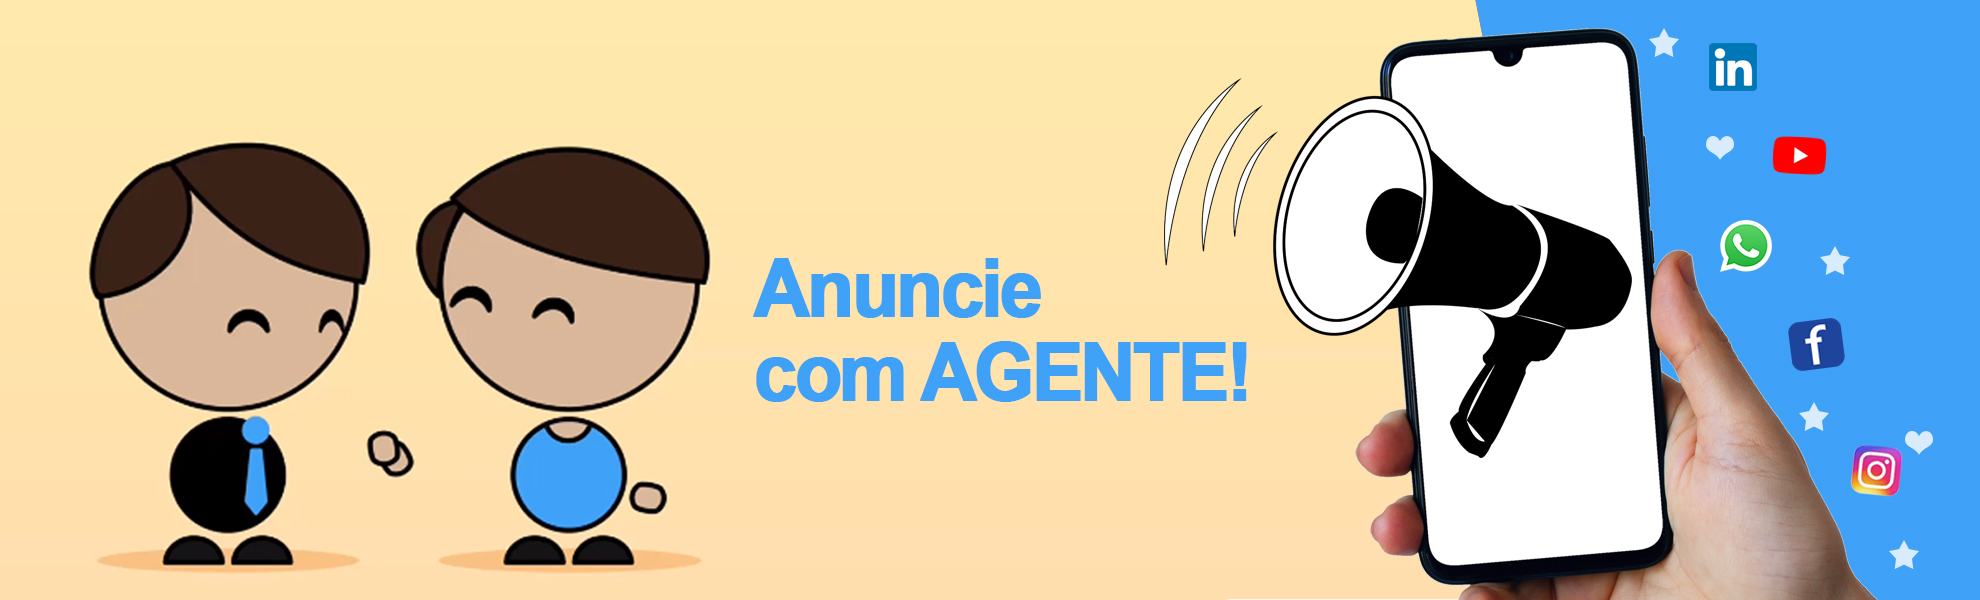
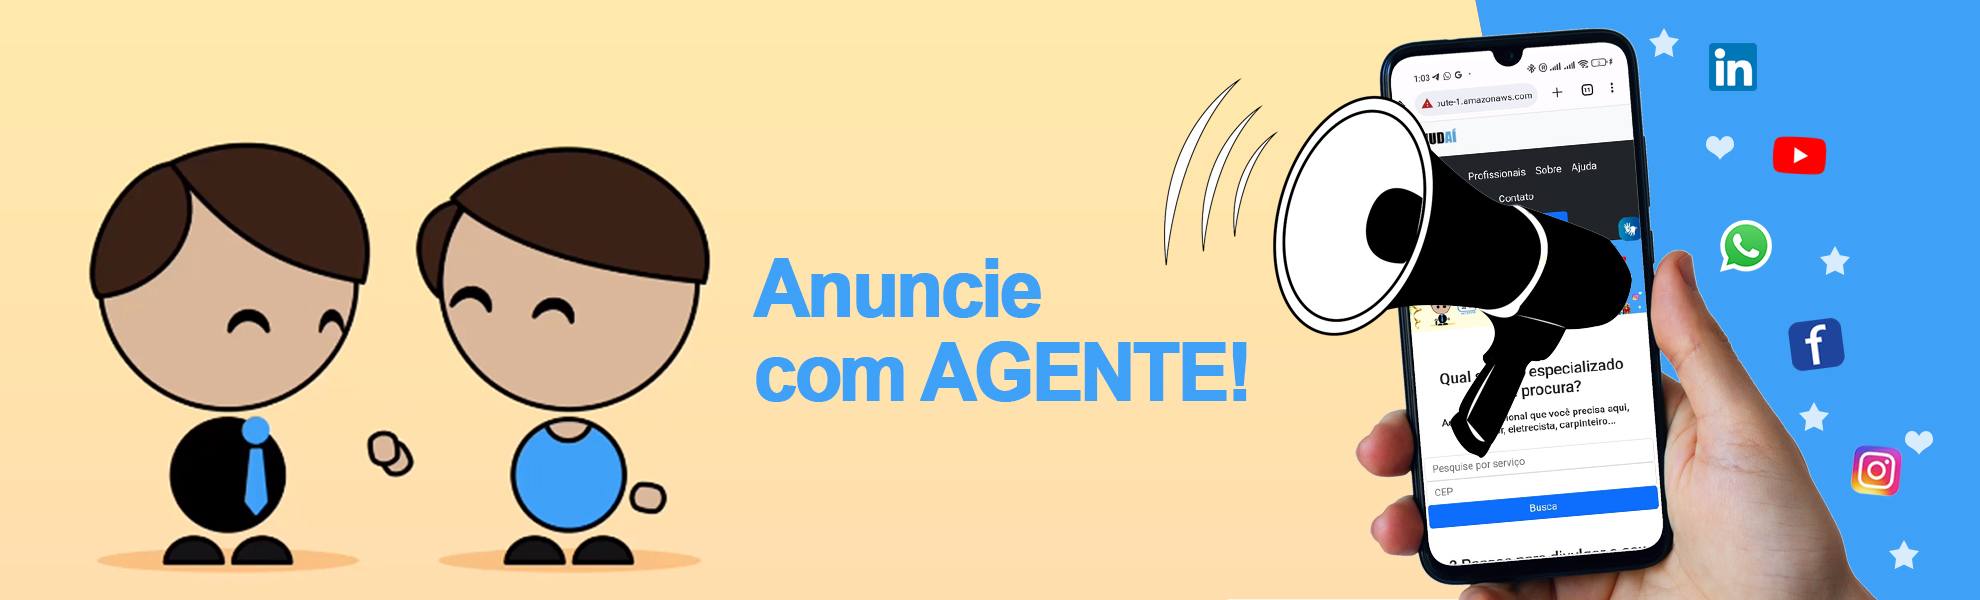
atualizacaoLinks

diff --git a/index.php b/index.php
@@ -9,61 +9,7 @@ include "connect.php";
     <meta charset="utf-8">
     <meta name="viewport" content="width=device-width, initial-scale=1">   
     <link rel="stylesheet" href="css/bootstrap.min.css">
-    <svg xmlns="http://www.w3.org/2000/svg" style="display: none;">
-
-        <symbol id="home" viewBox="0 0 16 16">
-          <path d="M8.354 1.146a.5.5 0 0 0-.708 0l-6 6A.5.5 0 0 0 1.5 7.5v7a.5.5 0 0 0 .5.5h4.5a.5.5 0 0 0 .5-.5v-4h2v4a.5.5 0 0 0 .5.5H14a.5.5 0 0 0 .5-.5v-7a.5.5 0 0 0-.146-.354L13 5.793V2.5a.5.5 0 0 0-.5-.5h-1a.5.5 0 0 0-.5.5v1.293L8.354 1.146zM2.5 14V7.707l5.5-5.5 5.5 5.5V14H10v-4a.5.5 0 0 0-.5-.5h-3a.5.5 0 0 0-.5.5v4H2.5z"/>
-        </symbol>
-        <symbol id="speedometer2" viewBox="0 0 16 16">
-          <path d="M8 4a.5.5 0 0 1 .5.5V6a.5.5 0 0 1-1 0V4.5A.5.5 0 0 1 8 4zM3.732 5.732a.5.5 0 0 1 .707 0l.915.914a.5.5 0 1 1-.708.708l-.914-.915a.5.5 0 0 1 0-.707zM2 10a.5.5 0 0 1 .5-.5h1.586a.5.5 0 0 1 0 1H2.5A.5.5 0 0 1 2 10zm9.5 0a.5.5 0 0 1 .5-.5h1.5a.5.5 0 0 1 0 1H12a.5.5 0 0 1-.5-.5zm.754-4.246a.389.389 0 0 0-.527-.02L7.547 9.31a.91.91 0 1 0 1.302 1.258l3.434-4.297a.389.389 0 0 0-.029-.518z"/>
-          <path fill-rule="evenodd" d="M0 10a8 8 0 1 1 15.547 2.661c-.442 1.253-1.845 1.602-2.932 1.25C11.309 13.488 9.475 13 8 13c-1.474 0-3.31.488-4.615.911-1.087.352-2.49.003-2.932-1.25A7.988 7.988 0 0 1 0 10zm8-7a7 7 0 0 0-6.603 9.329c.203.575.923.876 1.68.63C4.397 12.533 6.358 12 8 12s3.604.532 4.923.96c.757.245 1.477-.056 1.68-.631A7 7 0 0 0 8 3z"/>
-        </symbol>
-        <symbol id="table" viewBox="0 0 16 16">
-          <path d="M0 2a2 2 0 0 1 2-2h12a2 2 0 0 1 2 2v12a2 2 0 0 1-2 2H2a2 2 0 0 1-2-2V2zm15 2h-4v3h4V4zm0 4h-4v3h4V8zm0 4h-4v3h3a1 1 0 0 0 1-1v-2zm-5 3v-3H6v3h4zm-5 0v-3H1v2a1 1 0 0 0 1 1h3zm-4-4h4V8H1v3zm0-4h4V4H1v3zm5-3v3h4V4H6zm4 4H6v3h4V8z"/>
-        </symbol>
-        <symbol id="people-circle" viewBox="0 0 16 16">
-          <path d="M11 6a3 3 0 1 1-6 0 3 3 0 0 1 6 0z"/>
-          <path fill-rule="evenodd" d="M0 8a8 8 0 1 1 16 0A8 8 0 0 1 0 8zm8-7a7 7 0 0 0-5.468 11.37C3.242 11.226 4.805 10 8 10s4.757 1.225 5.468 2.37A7 7 0 0 0 8 1z"/>
-        </symbol>
-        <symbol id="grid" viewBox="0 0 16 16">
-          <path d="M1 2.5A1.5 1.5 0 0 1 2.5 1h3A1.5 1.5 0 0 1 7 2.5v3A1.5 1.5 0 0 1 5.5 7h-3A1.5 1.5 0 0 1 1 5.5v-3zM2.5 2a.5.5 0 0 0-.5.5v3a.5.5 0 0 0 .5.5h3a.5.5 0 0 0 .5-.5v-3a.5.5 0 0 0-.5-.5h-3zm6.5.5A1.5 1.5 0 0 1 10.5 1h3A1.5 1.5 0 0 1 15 2.5v3A1.5 1.5 0 0 1 13.5 7h-3A1.5 1.5 0 0 1 9 5.5v-3zm1.5-.5a.5.5 0 0 0-.5.5v3a.5.5 0 0 0 .5.5h3a.5.5 0 0 0 .5-.5v-3a.5.5 0 0 0-.5-.5h-3zM1 10.5A1.5 1.5 0 0 1 2.5 9h3A1.5 1.5 0 0 1 7 10.5v3A1.5 1.5 0 0 1 5.5 15h-3A1.5 1.5 0 0 1 1 13.5v-3zm1.5-.5a.5.5 0 0 0-.5.5v3a.5.5 0 0 0 .5.5h3a.5.5 0 0 0 .5-.5v-3a.5.5 0 0 0-.5-.5h-3zm6.5.5A1.5 1.5 0 0 1 10.5 9h3a1.5 1.5 0 0 1 1.5 1.5v3a1.5 1.5 0 0 1-1.5 1.5h-3A1.5 1.5 0 0 1 9 13.5v-3zm1.5-.5a.5.5 0 0 0-.5.5v3a.5.5 0 0 0 .5.5h3a.5.5 0 0 0 .5-.5v-3a.5.5 0 0 0-.5-.5h-3z"/>
-        </symbol>
-        <symbol id="collection" viewBox="0 0 16 16">
-          <path d="M2.5 3.5a.5.5 0 0 1 0-1h11a.5.5 0 0 1 0 1h-11zm2-2a.5.5 0 0 1 0-1h7a.5.5 0 0 1 0 1h-7zM0 13a1.5 1.5 0 0 0 1.5 1.5h13A1.5 1.5 0 0 0 16 13V6a1.5 1.5 0 0 0-1.5-1.5h-13A1.5 1.5 0 0 0 0 6v7zm1.5.5A.5.5 0 0 1 1 13V6a.5.5 0 0 1 .5-.5h13a.5.5 0 0 1 .5.5v7a.5.5 0 0 1-.5.5h-13z"/>
-        </symbol>
-        <symbol id="calendar3" viewBox="0 0 16 16">
-          <path d="M14 0H2a2 2 0 0 0-2 2v12a2 2 0 0 0 2 2h12a2 2 0 0 0 2-2V2a2 2 0 0 0-2-2zM1 3.857C1 3.384 1.448 3 2 3h12c.552 0 1 .384 1 .857v10.286c0 .473-.448.857-1 .857H2c-.552 0-1-.384-1-.857V3.857z"/>
-          <path d="M6.5 7a1 1 0 1 0 0-2 1 1 0 0 0 0 2zm3 0a1 1 0 1 0 0-2 1 1 0 0 0 0 2zm3 0a1 1 0 1 0 0-2 1 1 0 0 0 0 2zm-9 3a1 1 0 1 0 0-2 1 1 0 0 0 0 2zm3 0a1 1 0 1 0 0-2 1 1 0 0 0 0 2zm3 0a1 1 0 1 0 0-2 1 1 0 0 0 0 2zm3 0a1 1 0 1 0 0-2 1 1 0 0 0 0 2zm-9 3a1 1 0 1 0 0-2 1 1 0 0 0 0 2zm3 0a1 1 0 1 0 0-2 1 1 0 0 0 0 2zm3 0a1 1 0 1 0 0-2 1 1 0 0 0 0 2z"/>
-        </symbol>
-        <symbol id="chat-quote-fill" viewBox="0 0 16 16">
-          <path d="M16 8c0 3.866-3.582 7-8 7a9.06 9.06 0 0 1-2.347-.306c-.584.296-1.925.864-4.181 1.234-.2.032-.352-.176-.273-.362.354-.836.674-1.95.77-2.966C.744 11.37 0 9.76 0 8c0-3.866 3.582-7 8-7s8 3.134 8 7zM7.194 6.766a1.688 1.688 0 0 0-.227-.272 1.467 1.467 0 0 0-.469-.324l-.008-.004A1.785 1.785 0 0 0 5.734 6C4.776 6 4 6.746 4 7.667c0 .92.776 1.666 1.734 1.666.343 0 .662-.095.931-.26-.137.389-.39.804-.81 1.22a.405.405 0 0 0 .011.59c.173.16.447.155.614-.01 1.334-1.329 1.37-2.758.941-3.706a2.461 2.461 0 0 0-.227-.4zM11 9.073c-.136.389-.39.804-.81 1.22a.405.405 0 0 0 .012.59c.172.16.446.155.613-.01 1.334-1.329 1.37-2.758.942-3.706a2.466 2.466 0 0 0-.228-.4 1.686 1.686 0 0 0-.227-.273 1.466 1.466 0 0 0-.469-.324l-.008-.004A1.785 1.785 0 0 0 10.07 6c-.957 0-1.734.746-1.734 1.667 0 .92.777 1.666 1.734 1.666.343 0 .662-.095.931-.26z"/>
-        </symbol>
-        <symbol id="cpu-fill" viewBox="0 0 16 16">
-          <path d="M6.5 6a.5.5 0 0 0-.5.5v3a.5.5 0 0 0 .5.5h3a.5.5 0 0 0 .5-.5v-3a.5.5 0 0 0-.5-.5h-3z"/>
-          <path d="M5.5.5a.5.5 0 0 0-1 0V2A2.5 2.5 0 0 0 2 4.5H.5a.5.5 0 0 0 0 1H2v1H.5a.5.5 0 0 0 0 1H2v1H.5a.5.5 0 0 0 0 1H2v1H.5a.5.5 0 0 0 0 1H2A2.5 2.5 0 0 0 4.5 14v1.5a.5.5 0 0 0 1 0V14h1v1.5a.5.5 0 0 0 1 0V14h1v1.5a.5.5 0 0 0 1 0V14h1v1.5a.5.5 0 0 0 1 0V14a2.5 2.5 0 0 0 2.5-2.5h1.5a.5.5 0 0 0 0-1H14v-1h1.5a.5.5 0 0 0 0-1H14v-1h1.5a.5.5 0 0 0 0-1H14v-1h1.5a.5.5 0 0 0 0-1H14A2.5 2.5 0 0 0 11.5 2V.5a.5.5 0 0 0-1 0V2h-1V.5a.5.5 0 0 0-1 0V2h-1V.5a.5.5 0 0 0-1 0V2h-1V.5zm1 4.5h3A1.5 1.5 0 0 1 11 6.5v3A1.5 1.5 0 0 1 9.5 11h-3A1.5 1.5 0 0 1 5 9.5v-3A1.5 1.5 0 0 1 6.5 5z"/>
-        </symbol>
-        <symbol id="gear-fill" viewBox="0 0 16 16">
-          <path d="M9.405 1.05c-.413-1.4-2.397-1.4-2.81 0l-.1.34a1.464 1.464 0 0 1-2.105.872l-.31-.17c-1.283-.698-2.686.705-1.987 1.987l.169.311c.446.82.023 1.841-.872 2.105l-.34.1c-1.4.413-1.4 2.397 0 2.81l.34.1a1.464 1.464 0 0 1 .872 2.105l-.17.31c-.698 1.283.705 2.686 1.987 1.987l.311-.169a1.464 1.464 0 0 1 2.105.872l.1.34c.413 1.4 2.397 1.4 2.81 0l.1-.34a1.464 1.464 0 0 1 2.105-.872l.31.17c1.283.698 2.686-.705 1.987-1.987l-.169-.311a1.464 1.464 0 0 1 .872-2.105l.34-.1c1.4-.413 1.4-2.397 0-2.81l-.34-.1a1.464 1.464 0 0 1-.872-2.105l.17-.31c.698-1.283-.705-2.686-1.987-1.987l-.311.169a1.464 1.464 0 0 1-2.105-.872l-.1-.34zM8 10.93a2.929 2.929 0 1 1 0-5.86 2.929 2.929 0 0 1 0 5.858z"/>
-        </symbol>
-        <symbol id="speedometer" viewBox="0 0 16 16">
-          <path d="M8 2a.5.5 0 0 1 .5.5V4a.5.5 0 0 1-1 0V2.5A.5.5 0 0 1 8 2zM3.732 3.732a.5.5 0 0 1 .707 0l.915.914a.5.5 0 1 1-.708.708l-.914-.915a.5.5 0 0 1 0-.707zM2 8a.5.5 0 0 1 .5-.5h1.586a.5.5 0 0 1 0 1H2.5A.5.5 0 0 1 2 8zm9.5 0a.5.5 0 0 1 .5-.5h1.5a.5.5 0 0 1 0 1H12a.5.5 0 0 1-.5-.5zm.754-4.246a.389.389 0 0 0-.527-.02L7.547 7.31A.91.91 0 1 0 8.85 8.569l3.434-4.297a.389.389 0 0 0-.029-.518z"/>
-          <path fill-rule="evenodd" d="M6.664 15.889A8 8 0 1 1 9.336.11a8 8 0 0 1-2.672 15.78zm-4.665-4.283A11.945 11.945 0 0 1 8 10c2.186 0 4.236.585 6.001 1.606a7 7 0 1 0-12.002 0z"/>
-        </symbol>
-        <symbol id="toggles2" viewBox="0 0 16 16">
-          <path d="M9.465 10H12a2 2 0 1 1 0 4H9.465c.34-.588.535-1.271.535-2 0-.729-.195-1.412-.535-2z"/>
-          <path d="M6 15a3 3 0 1 0 0-6 3 3 0 0 0 0 6zm0 1a4 4 0 1 1 0-8 4 4 0 0 1 0 8zm.535-10a3.975 3.975 0 0 1-.409-1H4a1 1 0 0 1 0-2h2.126c.091-.355.23-.69.41-1H4a2 2 0 1 0 0 4h2.535z"/>
-          <path d="M14 4a4 4 0 1 1-8 0 4 4 0 0 1 8 0z"/>
-        </symbol>
-        <symbol id="tools" viewBox="0 0 16 16">
-          <path d="M1 0L0 1l2.2 3.081a1 1 0 0 0 .815.419h.07a1 1 0 0 1 .708.293l2.675 2.675-2.617 2.654A3.003 3.003 0 0 0 0 13a3 3 0 1 0 5.878-.851l2.654-2.617.968.968-.305.914a1 1 0 0 0 .242 1.023l3.356 3.356a1 1 0 0 0 1.414 0l1.586-1.586a1 1 0 0 0 0-1.414l-3.356-3.356a1 1 0 0 0-1.023-.242L10.5 9.5l-.96-.96 2.68-2.643A3.005 3.005 0 0 0 16 3c0-.269-.035-.53-.102-.777l-2.14 2.141L12 4l-.364-1.757L13.777.102a3 3 0 0 0-3.675 3.68L7.462 6.46 4.793 3.793a1 1 0 0 1-.293-.707v-.071a1 1 0 0 0-.419-.814L1 0zm9.646 10.646a.5.5 0 0 1 .708 0l3 3a.5.5 0 0 1-.708.708l-3-3a.5.5 0 0 1 0-.708zM3 11l.471.242.529.026.287.445.445.287.026.529L5 13l-.242.471-.026.529-.445.287-.287.445-.529.026L3 15l-.471-.242L2 14.732l-.287-.445L1.268 14l-.026-.529L1 13l.242-.471.026-.529.445-.287.287-.445.529-.026L3 11z"/>
-        </symbol>
-        <symbol id="chevron-right" viewBox="0 0 16 16">
-          <path fill-rule="evenodd" d="M4.646 1.646a.5.5 0 0 1 .708 0l6 6a.5.5 0 0 1 0 .708l-6 6a.5.5 0 0 1-.708-.708L10.293 8 4.646 2.354a.5.5 0 0 1 0-.708z"/>
-        </symbol>
-        <symbol id="geo-fill" viewBox="0 0 16 16">
-          <path fill-rule="evenodd" d="M4 4a4 4 0 1 1 4.5 3.969V13.5a.5.5 0 0 1-1 0V7.97A4 4 0 0 1 4 3.999zm2.493 8.574a.5.5 0 0 1-.411.575c-.712.118-1.28.295-1.655.493a1.319 1.319 0 0 0-.37.265.301.301 0 0 0-.057.09V14l.002.008a.147.147 0 0 0 .016.033.617.617 0 0 0 .145.15c.165.13.435.27.813.395.751.25 1.82.414 3.024.414s2.273-.163 3.024-.414c.378-.126.648-.265.813-.395a.619.619 0 0 0 .146-.15.148.148 0 0 0 .015-.033L12 14v-.004a.301.301 0 0 0-.057-.09 1.318 1.318 0 0 0-.37-.264c-.376-.198-.943-.375-1.655-.493a.5.5 0 1 1 .164-.986c.77.127 1.452.328 1.957.594C12.5 13 13 13.4 13 14c0 .426-.26.752-.544.977-.29.228-.68.413-1.116.558-.878.293-2.059.465-3.34.465-1.281 0-2.462-.172-3.34-.465-.436-.145-.826-.33-1.116-.558C3.26 14.752 3 14.426 3 14c0-.599.5-1 .961-1.243.505-.266 1.187-.467 1.957-.594a.5.5 0 0 1 .575.411z"/>
-        </symbol>
-    </svg>
+    
   </head>   
    
 <body>
@@ -200,8 +146,9 @@ include "connect.php";
       <div class="col">
         <div class="card card-cover h-100 overflow-hidden text-bg-dark rounded-4 " 
         style="background-image: url('img/anuncie.jpg');">
-          <div class="d-flex flex-column h-100 p-5 pb-3 text-white text-shadow-1">
-            <h3 class="pt-5 mt-5 mb-4 display-6 lh-1 fw-bold">Short title, long jacket</h3>            
+          <div class="d-flex flex-column h-100  text-white text-shadow-1">
+          <img src="img/anuncie.png"  width="300" height="300" >
+                        
           </div>
         </div>
       </div>
@@ -209,7 +156,7 @@ include "connect.php";
       <div class="col">
         <div class="card card-cover h-100 overflow-hidden text-bg-dark rounded-4 " 
         style="background-image: url('img/anuncie.jpg');">
-          <div class="d-flex flex-column h-100 p-5 pb-3 text-white text-shadow-1">
+          <div class="d-flex flex-column h-100 p-5 pb-3 text-white text-shadow-1">          
             <h3 class="pt-5 mt-5 mb-4 display-6 lh-1 fw-bold">Se você viu isso, seus clientes também vão ver! Anuncie</h3>
             
           </div>
@@ -231,63 +178,83 @@ include "connect.php";
 <div class="b-example-divider"></div>
 
 <div class="container px-4 py-3" id="icon-grid">
-  <h2 class="pb-2 border-bottom">Profissionais em destaques</h2>
+  <h2 class="pb-2 border-bottom">Alguns serviços que podem ser encontrados</h2>
+       
 
   <div class="row row-cols-1 row-cols-sm-2 row-cols-md-3 row-cols-lg-4 g-4 py-5">
 
     <div class="col d-flex align-items-start">
-      <svg class="bi text-muted flex-shrink-0 me-3" width="1.75em" height="1.75em"><use xlink:href="#cpu-fill"/></svg>
+    <svg xmlns="http://www.w3.org/2000/svg" width="1.75em" height="1.75em" fill="currentColor" class="me-3 bi bi-screwdriver" viewBox="0 0 16 16">
+  <path d="M0 .995.995 0l3.064 2.19a.995.995 0 0 1 .417.809v.07c0 .264.105.517.291.704l5.677 5.676.909-.303a.995.995 0 0 1 1.018.24l3.338 3.339a.995.995 0 0 1 0 1.406L14.13 15.71a.995.995 0 0 1-1.406 0l-3.337-3.34a.995.995 0 0 1-.24-1.018l.302-.909-5.676-5.677a.995.995 0 0 0-.704-.291H3a.995.995 0 0 1-.81-.417L0 .995Zm11.293 9.595a.497.497 0 1 0-.703.703l2.984 2.984a.497.497 0 0 0 .703-.703l-2.984-2.984Z"/>
+</svg>
       <div>
-        <h3 class="fw-bold mb-0 fs-4">Eletrecista</h3>        
+        <h3 ><a href="profissionais.php" class="link-dark">Eletrecista</h3></a>  
       </div>
     </div>
 
     <div class="col d-flex align-items-start">
-      <svg class="bi text-muted flex-shrink-0 me-3" width="1.75em" height="1.75em"><use xlink:href="#cpu-fill"/></svg>
+    <svg xmlns="http://www.w3.org/2000/svg" width="1.75em" height="1.75em" fill="currentColor" class="me-3 bi bi-handbag-fill" viewBox="0 0 16 16">
+  <path d="M8 1a2 2 0 0 0-2 2v2H5V3a3 3 0 1 1 6 0v2h-1V3a2 2 0 0 0-2-2zM5 5H3.36a1.5 1.5 0 0 0-1.483 1.277L.85 13.13A2.5 2.5 0 0 0 3.322 16h9.355a2.5 2.5 0 0 0 2.473-2.87l-1.028-6.853A1.5 1.5 0 0 0 12.64 5H11v1.5a.5.5 0 0 1-1 0V5H6v1.5a.5.5 0 0 1-1 0V5z"/>
+</svg>
       <div>
-        <h3 class="fw-bold mb-0 fs-4">Manicure</h3>        
+      <h3 ><a href="profissionais.php" class="link-dark">Manicure</h3></a>        
       </div>
     </div>
 
     <div class="col d-flex align-items-start">
-      <svg class="bi text-muted flex-shrink-0 me-3" width="1.75em" height="1.75em"><use xlink:href="#calendar3"/></svg>
+    <svg xmlns="http://www.w3.org/2000/svg" width="1.75em" height="1.75em" fill="currentColor" class="me-3 bi bi-wrench-adjustable" viewBox="0 0 16 16">
+  <path d="M16 4.5a4.492 4.492 0 0 1-1.703 3.526L13 5l2.959-1.11c.027.2.041.403.041.61Z"/>
+  <path d="M11.5 9c.653 0 1.273-.139 1.833-.39L12 5.5 11 3l3.826-1.53A4.5 4.5 0 0 0 7.29 6.092l-6.116 5.096a2.583 2.583 0 1 0 3.638 3.638L9.908 8.71A4.49 4.49 0 0 0 11.5 9Zm-1.292-4.361-.596.893.809-.27a.25.25 0 0 1 .287.377l-.596.893.809-.27.158.475-1.5.5a.25.25 0 0 1-.287-.376l.596-.893-.809.27a.25.25 0 0 1-.287-.377l.596-.893-.809.27-.158-.475 1.5-.5a.25.25 0 0 1 .287.376ZM3 14a1 1 0 1 1 0-2 1 1 0 0 1 0 2Z"/>
+</svg>
       <div>
-        <h3 class="fw-bold mb-0 fs-4">Encanador</h3>
+      <h3 ><a href="profissionais.php" class="link-dark">Encanador</h3></a>
         
       </div>
     </div>
     <div class="col d-flex align-items-start">
-      <svg class="bi text-muted flex-shrink-0 me-3" width="1.75em" height="1.75em"><use xlink:href="#home"/></svg>
+    <svg xmlns="http://www.w3.org/2000/svg" width="1.75em" height="1.75em" fill="currentColor" class="me-3 bi bi-house-gear-fill" viewBox="0 0 16 16">
+  <path d="M7.293 1.5a1 1 0 0 1 1.414 0L11 3.793V2.5a.5.5 0 0 1 .5-.5h1a.5.5 0 0 1 .5.5v3.293l2.354 2.353a.5.5 0 0 1-.708.708L8 2.207 1.354 8.854a.5.5 0 1 1-.708-.708L7.293 1.5Z"/>
+  <path d="M11.07 9.047a1.5 1.5 0 0 0-1.742.26l-.02.021a1.5 1.5 0 0 0-.261 1.742 1.5 1.5 0 0 0 0 2.86 1.504 1.504 0 0 0-.12 1.07H3.5A1.5 1.5 0 0 1 2 13.5V9.293l6-6 4.724 4.724a1.5 1.5 0 0 0-1.654 1.03Z"/>
+  <path d="m13.158 9.608-.043-.148c-.181-.613-1.049-.613-1.23 0l-.043.148a.64.64 0 0 1-.921.382l-.136-.074c-.561-.306-1.175.308-.87.869l.075.136a.64.64 0 0 1-.382.92l-.148.045c-.613.18-.613 1.048 0 1.229l.148.043a.64.64 0 0 1 .382.921l-.074.136c-.306.561.308 1.175.869.87l.136-.075a.64.64 0 0 1 .92.382l.045.149c.18.612 1.048.612 1.229 0l.043-.15a.64.64 0 0 1 .921-.38l.136.074c.561.305 1.175-.309.87-.87l-.075-.136a.64.64 0 0 1 .382-.92l.149-.044c.612-.181.612-1.049 0-1.23l-.15-.043a.64.64 0 0 1-.38-.921l.074-.136c.305-.561-.309-1.175-.87-.87l-.136.075a.64.64 0 0 1-.92-.382ZM12.5 14a1.5 1.5 0 1 1 0-3 1.5 1.5 0 0 1 0 3Z"/>
+</svg>
       <div>
-        <h3 class="fw-bold mb-0 fs-4">Pedreiro</h3>
+      <h3 ><a href="profissionais.php" class="link-dark">Pedreiro</h3></a>
         
       </div>
     </div>
     <div class="col d-flex align-items-start">
-      <svg class="bi text-muted flex-shrink-0 me-3" width="1.75em" height="1.75em"><use xlink:href="#speedometer2"/></svg>
+    <svg xmlns="http://www.w3.org/2000/svg" width="1.75em" height="1.75em" fill="currentColor" class="me-3 bi bi-tree" viewBox="0 0 16 16">
+  <path d="M8.416.223a.5.5 0 0 0-.832 0l-3 4.5A.5.5 0 0 0 5 5.5h.098L3.076 8.735A.5.5 0 0 0 3.5 9.5h.191l-1.638 3.276a.5.5 0 0 0 .447.724H7V16h2v-2.5h4.5a.5.5 0 0 0 .447-.724L12.31 9.5h.191a.5.5 0 0 0 .424-.765L10.902 5.5H11a.5.5 0 0 0 .416-.777l-3-4.5zM6.437 4.758A.5.5 0 0 0 6 4.5h-.066L8 1.401 10.066 4.5H10a.5.5 0 0 0-.424.765L11.598 8.5H11.5a.5.5 0 0 0-.447.724L12.69 12.5H3.309l1.638-3.276A.5.5 0 0 0 4.5 8.5h-.098l2.022-3.235a.5.5 0 0 0 .013-.507z"/>
+</svg>
       <div>
-        <h3 class="fw-bold mb-0 fs-4">Jardineiro</h3>
+      <h3 ><a href="profissionais.php" class="link-dark">Jardineiro</h3></a>
         
       </div>
     </div>
     <div class="col d-flex align-items-start">
-      <svg class="bi text-muted flex-shrink-0 me-3" width="1.75em" height="1.75em"><use xlink:href="#toggles2"/></svg>
+      <svg xmlns="http://www.w3.org/2000/svg" width="1.75em" height="1.75em" fill="currentColor" class="me-3 bi bi-car-front-fill" viewBox="0 0 16 16">
+  <path d="M2.52 3.515A2.5 2.5 0 0 1 4.82 2h6.362c1 0 1.904.596 2.298 1.515l.792 1.848c.075.175.21.319.38.404.5.25.855.715.965 1.262l.335 1.679c.033.161.049.325.049.49v.413c0 .814-.39 1.543-1 1.997V13.5a.5.5 0 0 1-.5.5h-2a.5.5 0 0 1-.5-.5v-1.338c-1.292.048-2.745.088-4 .088s-2.708-.04-4-.088V13.5a.5.5 0 0 1-.5.5h-2a.5.5 0 0 1-.5-.5v-1.892c-.61-.454-1-1.183-1-1.997v-.413a2.5 2.5 0 0 1 .049-.49l.335-1.68c.11-.546.465-1.012.964-1.261a.807.807 0 0 0 .381-.404l.792-1.848ZM3 10a1 1 0 1 0 0-2 1 1 0 0 0 0 2Zm10 0a1 1 0 1 0 0-2 1 1 0 0 0 0 2ZM6 8a1 1 0 0 0 0 2h4a1 1 0 1 0 0-2H6ZM2.906 5.189a.51.51 0 0 0 .497.731c.91-.073 3.35-.17 4.597-.17 1.247 0 3.688.097 4.597.17a.51.51 0 0 0 .497-.731l-.956-1.913A.5.5 0 0 0 11.691 3H4.309a.5.5 0 0 0-.447.276L2.906 5.19Z"/>
+</svg>
       <div>
-        <h3 class="fw-bold mb-0 fs-4">Borracheiro</h3>
+      <h3 ><a href="profissionais.php" class="link-dark">Borracheiro</h3></a>
         
       </div>
     </div>
     <div class="col d-flex align-items-start">
-      <svg class="bi text-muted flex-shrink-0 me-3" width="1.75em" height="1.75em"><use xlink:href="#geo-fill"/></svg>
+    <svg xmlns="http://www.w3.org/2000/svg" width="1.75em" height="1.75em" fill="currentColor" class="me-3 bi bi-paint-bucket" viewBox="0 0 16 16">
+  <path d="M6.192 2.78c-.458-.677-.927-1.248-1.35-1.643a2.972 2.972 0 0 0-.71-.515c-.217-.104-.56-.205-.882-.02-.367.213-.427.63-.43.896-.003.304.064.664.173 1.044.196.687.556 1.528 1.035 2.402L.752 8.22c-.277.277-.269.656-.218.918.055.283.187.593.36.903.348.627.92 1.361 1.626 2.068.707.707 1.441 1.278 2.068 1.626.31.173.62.305.903.36.262.05.64.059.918-.218l5.615-5.615c.118.257.092.512.05.939-.03.292-.068.665-.073 1.176v.123h.003a1 1 0 0 0 1.993 0H14v-.057a1.01 1.01 0 0 0-.004-.117c-.055-1.25-.7-2.738-1.86-3.494a4.322 4.322 0 0 0-.211-.434c-.349-.626-.92-1.36-1.627-2.067-.707-.707-1.441-1.279-2.068-1.627-.31-.172-.62-.304-.903-.36-.262-.05-.64-.058-.918.219l-.217.216zM4.16 1.867c.381.356.844.922 1.311 1.632l-.704.705c-.382-.727-.66-1.402-.813-1.938a3.283 3.283 0 0 1-.131-.673c.091.061.204.15.337.274zm.394 3.965c.54.852 1.107 1.567 1.607 2.033a.5.5 0 1 0 .682-.732c-.453-.422-1.017-1.136-1.564-2.027l1.088-1.088c.054.12.115.243.183.365.349.627.92 1.361 1.627 2.068.706.707 1.44 1.278 2.068 1.626.122.068.244.13.365.183l-4.861 4.862a.571.571 0 0 1-.068-.01c-.137-.027-.342-.104-.608-.252-.524-.292-1.186-.8-1.846-1.46-.66-.66-1.168-1.32-1.46-1.846-.147-.265-.225-.47-.251-.607a.573.573 0 0 1-.01-.068l3.048-3.047zm2.87-1.935a2.44 2.44 0 0 1-.241-.561c.135.033.324.11.562.241.524.292 1.186.8 1.846 1.46.45.45.83.901 1.118 1.31a3.497 3.497 0 0 0-1.066.091 11.27 11.27 0 0 1-.76-.694c-.66-.66-1.167-1.322-1.458-1.847z"/>
+</svg>
       <div>
-        <h3 class="fw-bold mb-0 fs-4">Pintor</h3>
+      <h3 ><a href="profissionais.php" class="link-dark">Pintor</h3></a>
         
       </div>
     </div>
     <div class="col d-flex align-items-start">
-      <svg class="bi text-muted flex-shrink-0 me-3" width="1.75em" height="1.75em"><use xlink:href="#tools"/></svg>
+    <svg xmlns="http://www.w3.org/2000/svg" width="1.75em" height="1.75em" fill="currentColor" class="me-3 bi bi-tools" viewBox="0 0 16 16">
+  <path d="M1 0 0 1l2.2 3.081a1 1 0 0 0 .815.419h.07a1 1 0 0 1 .708.293l2.675 2.675-2.617 2.654A3.003 3.003 0 0 0 0 13a3 3 0 1 0 5.878-.851l2.654-2.617.968.968-.305.914a1 1 0 0 0 .242 1.023l3.27 3.27a.997.997 0 0 0 1.414 0l1.586-1.586a.997.997 0 0 0 0-1.414l-3.27-3.27a1 1 0 0 0-1.023-.242L10.5 9.5l-.96-.96 2.68-2.643A3.005 3.005 0 0 0 16 3c0-.269-.035-.53-.102-.777l-2.14 2.141L12 4l-.364-1.757L13.777.102a3 3 0 0 0-3.675 3.68L7.462 6.46 4.793 3.793a1 1 0 0 1-.293-.707v-.071a1 1 0 0 0-.419-.814L1 0Zm9.646 10.646a.5.5 0 0 1 .708 0l2.914 2.915a.5.5 0 0 1-.707.707l-2.915-2.914a.5.5 0 0 1 0-.708ZM3 11l.471.242.529.026.287.445.445.287.026.529L5 13l-.242.471-.026.529-.445.287-.287.445-.529.026L3 15l-.471-.242L2 14.732l-.287-.445L1.268 14l-.026-.529L1 13l.242-.471.026-.529.445-.287.287-.445.529-.026L3 11Z"/>
+</svg>
       <div>
-        <h3 class="fw-bold mb-0 fs-4">Marceneiro</h3>        
+      <h3 ><a href="profissionais.php" class="link-dark">Marceneiro</h3></a>       
       </div>
     </div>
   </div>

diff --git a/contato.php b/contato.php
@@ -41,11 +41,7 @@
       
       </div>
       <div class="col-md-5 order-md-1">
-        <svg class="bd-placeholder-img bd-placeholder-img-lg featurette-image img-fluid mx-auto" 
-        width="500" height="500" xmlns="http://www.w3.org/2000/svg" role="img" 
-        aria-label="Placeholder: 500x500" preserveAspectRatio="xMidYMid slice" 
-        focusable="false"><title>Placeholder</title><rect width="100%" height="100%" 
-        fill="#eee"/><text x="50%" y="50%" fill="#aaa" dy=".3em">500x500</text></svg>
+      <img src="img/01.png" height="400" width="400" style="display: block; margin: 0 auto;"  />
       </div>
     </div>   
     

diff --git a/head/rodape_index.php b/head/rodape_index.php
@@ -9,7 +9,7 @@
             <li class="nav-item"><a href="sobre.php" class="nav-link px-2 text-muted">Sobre</a></li>
             <li class="nav-item"><a href="ajuda.php" class="nav-link px-2 text-muted">Ajuda</a></li>            
           </ul>
-          <p class="text-center text-muted">&copy; 2021–2022 Ajudaí | Todos os direitos reservados. Construido por <a href="#">Camila Parise</a>.</p>
+          <p class="text-center text-muted">&copy; 2021–2022 Ajudaí | Todos os direitos reservados. Construido por <a href="https://github.com/camilinhaparis">Camila Parise</a>.</p>
     </div> 
     
 </footer>

diff --git a/sobre.php b/sobre.php
@@ -22,10 +22,11 @@
 	<p class="lead text-muted ">Você é um encanador, eletrecista, carpinteiro...</p>
 	
 </div>
-	
+     
+      
 <div >
 <section >    
-		<embed src="video/video.mp4" autoplay="false" height="577" width="1024" 
+		<embed src="video/video.mp4" autoplay="false" height="380" width="676" 
           style="display: block; margin: 0 auto;" /> 
 	</section>
 </div>
